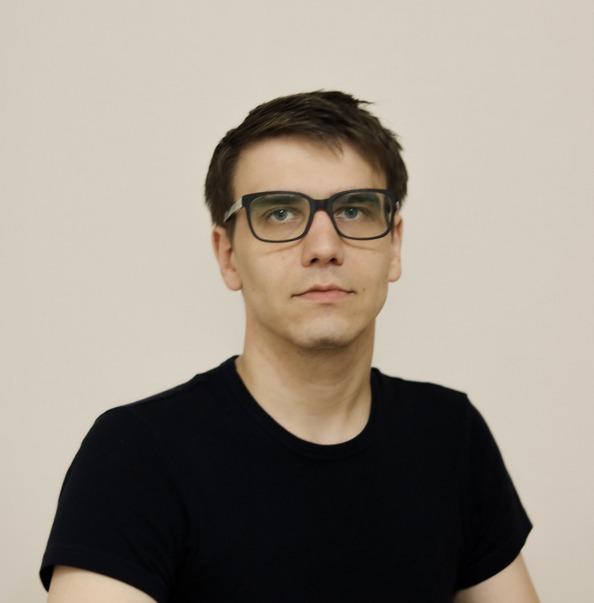
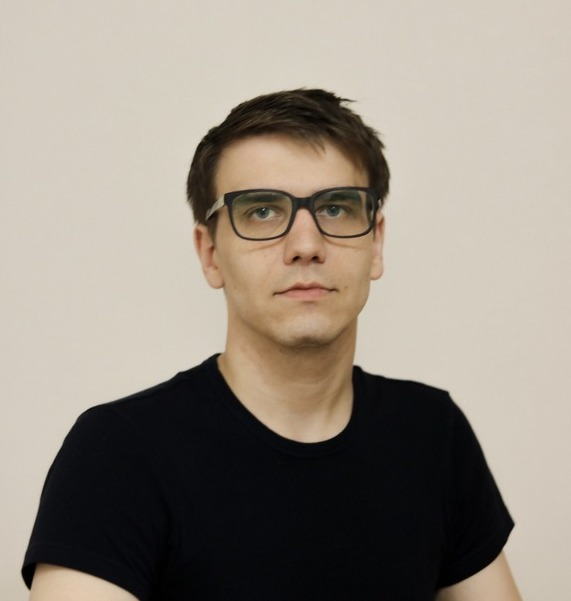
feat: css complited v1

diff --git a/index.html b/index.html
@@ -6,83 +6,77 @@
     <meta http-equiv="X-UA-Compatible" content="ie=edge">
     <title>Alexey Sorokopud</title>
     <link rel="stylesheet" href="style.css">
+    <link href="https://fonts.googleapis.com/css?family=Arimo:400,400i,700,700i&display=swap&subset=cyrillic" rel="stylesheet">
+    <link rel="stylesheet" href="https://fonts.googleapis.com/css?family=Lato:300,400,700&display=swap" >
     <script src="https://kit.fontawesome.com/6eb37a7594.js" crossorigin="anonymous"></script>
 </head>
 <body>
     <header>    
         <nav>
-            <ul>
-                <li>Mobile: +375291239239 </li>
-                <li>Email: alexeysorokopud@gmail.com</li>
+            <ul class="contacs">
+                <li>
+                    <a href="mailto: alexeysorokopud@gmail.com"><i class="fas fa-envelope-open-text"></i></a>
+                </li>
                 <li>
                     <a href="https://github.com/sap13" target="_blank"><i class="fab fa-github"></i></a>
-                    
                 </li>
                 <li>
                     <a href="https://t.me/sap1308" target="_blank"><i class="fab fa-telegram-plane"></i></a>
-                    
                 </li> 
             </ul>
         </nav>
         <div>
-            <img src="./img/myphoto.JPG" alt="My_photo">
-            <h1>Alexey Sorokopud</h1>
-                <h2>Junior Front-End Developer</h2>
+            <img src="./img/myphoto.JPG" alt="My_photo" width="250px" >
+            <h1 class="name"> Alexey Sorokopud</h1>
+                <h2 class=prof>Junior Front-End Developer</h2>
         </div>
     </header>
 <main>
     <section>
-        <h2>Summary:</h2>
+        <h2>Summary</h2>
             <p>I am 27 years old and most of my life has been devoted to computers. It all started in 2003 with computer games. After friends asked to help them install Windows, games and so on. After that, my parents organized a small business selling computer equipment, and I had to help them in their work. After studying at the department of electronic computing tools, I fully began working with computers in the field of repair and maintenance. In 2019, I moved to Minsk and am doing the same thing now. More recently, I decided to try myself in programming. I searched for courses suitable for me and stumbled upon the wonderful community “The Rolling Scopes School”.Of course, there is not enough time catastrophically, to combine both work and study, but I try my best to study a new direction, drawing information from books, videos, and broadcasts. I really want to become a successful programmer, and be a sought after and highly paid specialist in the market.</p>
-    </section>       
-    <section>
-            <h2>Skills:</h2>
-                <ul>
-                    <li>HTML;</li>
-                    <li>CSS;</li>
-                    <li>JavaScript basics;</li>
-                    <li>Git;</li>
-                    <li>Bash</li>
-                </ul>
     </section>
     <section>
-        <h2>Experience:</h2>
-            <p>
-                <ul>
-                    <li>Completed HTML and CSS basics courses on codeacademy and htmlacademy;</li>
-                    <li>I just started to learn, and I have no experience in programming. But I have vast experience in repairing computer equipment.</li>
-                </ul>
-            </p>
-
-
+        <h2>Skills</h2>
+            <p>HTML</p>
+            <p>CSS</p>
+            <p>JavaScript basics</p>
+            <p>Git</p>
+            <p>Bash</p>
     </section>
     <section>
-        <h2>Education:</h2>
-            <p>
-                <ul>
-                    <li>Gomel State Road Construction College. Department of Electronic Computing Tools. Graduated in 2011у;</li>
-                    <li>Htmlacademy basic courses;</li>
-                    <li>Rolling Scopes School: Front-End Developer;</li>
-                </ul>
+        <h2>Experience</h2>
+            <p>Completed HTML and CSS basics courses on codeacademy and htmlacademy</p>
+            <p>I just started to learn, and I have no experience in programming. But I have vast experience in repairing computer equipment</p>
+    </section>
+    <section>
+        <h2>Education</h2>
+            <p>Gomel State Road Construction College. Department of Electronic Computing Tools. Graduated in 2011у</p>
+            <p>Htmlacademy basic courses</p>
+            <p>Rolling Scopes School: Front-End Developer</p>
+    </section>
+    <section>
+        <h2> English</h2>
+            <p>A2 Pre-Intermediate</p>
+            <p>Started study at school;</p>
+            <p>Сommunication with a foreign person (basic questions, basic answers)</p>
             </p>
     </section>
-    <section>
-            <h2> English:</h2>
-                <p>
-                    <ul>
-                        <li>Started study at school;</li>
-                        <li>Сommunication with a foreign person (basic questions, basic answers)</li>
-                    </ul>
-                    
-                </p>
-
-            </section>
-
-
 </main>
-
 <footer>
-
+    <div class="footer_blocks">
+        <ul>
+            <li>
+                <a href="mailto: alexeysorokopud@gmail.com"><i class="fas fa-envelope-open-text"></i></a>
+            </li>
+            <li>
+                <a href="https://github.com/sap13" target="_blank"><i class="fab fa-github"></i></a>
+            </li>
+            <li>
+                    <a href="https://t.me/sap1308" target="_blank"><i class="fab fa-telegram-plane"></i></a>
+            </li> 
+        </ul>
+    </div>
 </footer>
 </body>
 </html>

diff --git a/style.css b/style.css
@@ -1,0 +1,122 @@
+body {
+    margin: 30px auto;
+    max-width: 1024px;
+    font-family: "arimo", sans-serif;
+    text-align: center;
+    border-radius: 5px;
+    box-shadow: 0 5px 25px 0 rgba(0, 0, 0, 0.15);
+}
+
+section{
+    text-align: center;
+    
+}
+
+h1{
+    font-size: 26px;
+    text-align: center;
+    background: rgba(0, 0, 0, 0.15)
+
+}
+
+h2{
+    font-size: 22px;
+    text-align: center;
+    background: rgba(0, 0, 0, 0.15)
+
+    
+}
+
+p{
+    white-space: normal;
+    font-family: 'Lato', sans-serif;
+    font-size: 1em;
+    font-weight: 500;
+    position: relative;
+    line-height: 1.4;
+    color: rgb(0, 0, 0, 0.9);
+    margin-bottom: 20px;
+    text-align: center;
+    letter-spacing: 0.05em;
+
+}
+section , header, footer {
+    margin: 0px;
+    padding: 30px 25px;
+}
+
+
+img{
+    display: block;
+    margin: 0 auto;
+    border-radius: 50%;
+    box-shadow: 0 20px 28px rgba(0,0,0,0.25), 0 10px 10px rgba(0,0,0,0.22);
+}
+
+main{
+    margin: 0 auto;
+    padding: 0;
+    box-sizing: border-box;
+    max-width: 1024px;
+}
+
+
+, footer {
+    margin: 0 auto;
+    
+}
+
+nav{
+    margin-top: 4px;
+    padding-right: 30px;
+    padding-top: 30px;
+}
+.contacs{
+    margin-left: 30px;
+    text-align: right;
+}
+
+.contacs li{
+    display: inline;
+    margin: 15px;
+}
+
+.fa-telegram-plane ,
+.fa-github ,
+.fa-envelope-open-text
+ {
+   
+    font-size: 25px;
+    color: rgb(0, 0, 0, 0.7)
+}
+ 
+.fa-github:hover {
+    font-size: 25px;
+    color: #970cc2d5;
+}
+
+.fa-telegram-plane:hover {
+    font-size: 25px;
+    color: #1c5be2d5;
+}
+.fa-envelope-open-text:hover{
+    font-size: 25px;
+    color: #092247d5
+}
+
+.name{
+    font-size: 36px;
+    text-align: center;
+}
+
+.prof{
+    font-size: 26px;
+    text-align: center;
+ }
+
+div li{
+    display: inline;
+    margin: 40px;
+    text-align: center;
+    
+}
